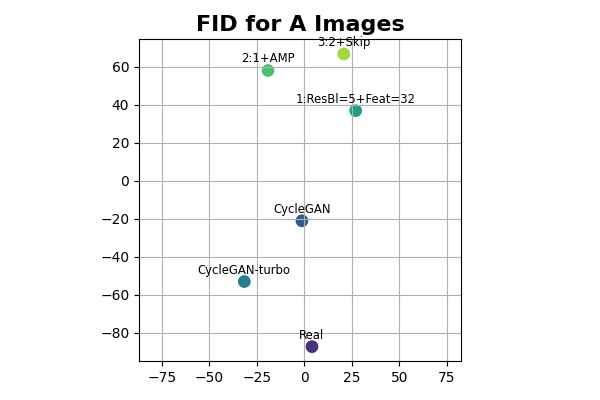
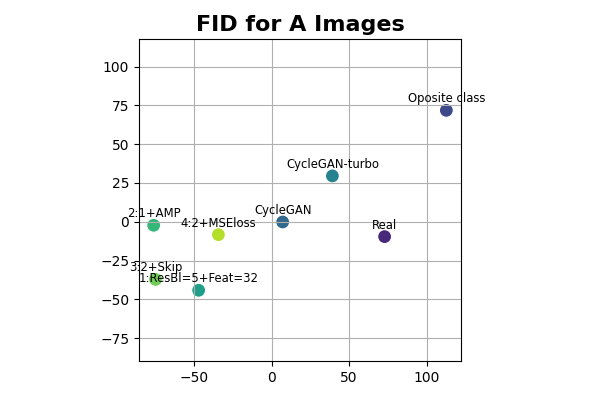
Added oposite class to metrics calculation

diff --git a/projetos/ReCycleGAN/src/scripts/evaluate_models.py b/projetos/ReCycleGAN/src/scripts/evaluate_models.py
@@ -48,15 +48,15 @@ def build_data_loaders(folder_name):
     out = {}
     for p in ['A','B']:
         if folder_name == 'real':
-            f_name = f'input_{p}'
             images_csv = BASE_FOLDER / f'data/external/nexet/input_{p}_all_filtered.csv'
+            f_name = f'input_{p}'
         else:
-            if p == 'A':
-                fake_p = 'B'
-            else:
-                fake_p = 'A'
-            f_name = f'output_{fake_p}_{folder_name}'
+            fake_p = 'B' if p == 'A' else 'A'
             images_csv = BASE_FOLDER / f'data/external/nexet/input_{fake_p}_all_filtered.csv'
+            if folder_name == 'oposite':
+                f_name = f'input_{fake_p}'
+            else:
+                f_name = f'output_{fake_p}_{folder_name}'
         out[p] = get_img_dataloader(
             csv_file = images_csv,
             img_dir = BASE_FOLDER / f'data/external/nexet/{f_name}',
@@ -186,50 +186,62 @@ def distance_dict_to_table(distances, keys):
             d_table[j+i+1,i] = distances[(k1,k2)]
     return d_table
 
-if __name__ == '__main__':
+def main():
+    """Main function."""
 
     # Build translated images
-    # for i_ in range(1, 4):
+    # for i_ in range(1, 5):
     #     build_images(i_)
 
     # Build image data loaders
-    model_list_ = {
+    model_list = {
         'Real': 'real',
+        'Oposite class': 'oposite',
         'CycleGAN': 'cyclegan',
         'CycleGAN-turbo': 'turbo',
     }
-    for i_ in range(1, 4):
-        model_list_[TEST_CASES[str(i_)]['short_description']] = f'test_{i_}'
+    for i in range(1, 5):
+        test_case = TEST_CASES[str(i)]
+        model_list[test_case['short_description']] = f'test_{i}'
 
-    data_loaders_ = {}
-    for k_,v_ in model_list_.items():
-        data_loaders_[k_] = build_data_loaders(v_)
+    data_loaders = {}
+    for k,v in model_list.items():
+        data_loaders[k] = build_data_loaders(v)
 
     # Calculate FID distances
-    fid_dict_ = get_fid(data_loaders_)
+    fid_dict = get_fid(data_loaders)
 
     print('FID distances')
-    for p_ in ['A','B']:
-        print(f'Imgs {p_}')
-        for k_,v_ in fid_dict_[p_].items():
-            print(f'\t{str(k_)}: {v_:0.3f}')
+    for p in ['A','B']:
+        print(f'Imgs {p}')
+        for k,v in fid_dict[p].items():
+            print(f'\t{str(k)}: {v:0.3f}')
 
-    labels_ = list(model_list_.keys())
-    for p_ in ['A','B']:
-        fid_table_ = distance_dict_to_table(fid_dict_[p_], labels_)
-        fid_2d_points_ = create_2d_map(fid_table_)
+    labels = list(model_list.keys())
+    for p in ['A','B']:
+        fid_table = distance_dict_to_table(fid_dict[p], labels)
+        fid_2d_points = create_2d_map(fid_table)
         plot_2d_map(
-            fid_2d_points_,
-            labels_,
-            file_path=BASE_FOLDER / f'docs/assets/evaluation/fid_map_images_{p_}.png',
-            title=f'FID for {p_} Images')
+            fid_2d_points,
+            labels,
+            file_path=BASE_FOLDER / f'docs/assets/evaluation/fid_map_images_{p}.png',
+            title=f'FID for {p} Images')
 
-        data_ = {
-            'class': labels_[1:],
-            'value': [fid_dict_[p_][(labels_[0],k)] for k in labels_[1:]]
+        data = {
+            'class': labels[1:],
+            'value': [fid_dict[p][(labels[0],k)] for k in labels[1:]]
         }
         plot_hbar(
-            data_,
-            file_path=BASE_FOLDER / f'docs/assets/evaluation/fid_bar_images_{p_}.png',
-            title=f'FID for {p_} Images',
+            data,
+            file_path=BASE_FOLDER / f'docs/assets/evaluation/fid_bar_images_{p}.png',
+            title=f'FID for {p} Images',
             x_label='FID to Real Images')
+
+    # Calculate LPIPS
+    #   Same plots (with mean distance)
+    #   Compare histograms
+    #   Sample images along histogram
+    # Build samples with all translations
+
+if __name__ == '__main__':
+    main()
